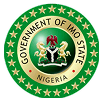
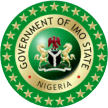
added global

diff --git a/components/sections/partnership/meeting.tsx b/components/sections/partnership/meeting.tsx
@@ -3,7 +3,7 @@ import Link from "next/link";
 
 const GlobalPartnersCollection = [
     {
-        image: '/images/partners/partner.png',
+        image: '/images/partners/imo.png',
         header: 'Imo State Government',
         body: "Driving digital transformation, the Imo State Government's initiatives like Skill-Up Imo aim to train over 100,000 youths in digital technologies, positioning the state as Nigeria's tech hub",
         website: 'https://www.adminting.com'
@@ -36,46 +36,40 @@ const GlobalPartnersCollection = [
 
 export default function GlobalPartners() {
     return (
-        <section className="w-full max-w-[919px] mx-auto py-12 md:py-16 lg:py-[80px] flex flex-col items-center gap-8 md:gap-12 lg:gap-[67px] px-4 sm:px-6">
+        <section className="">
             <h1 className="font-satoshi font-bold text-2xl sm:text-3xl lg:text-[32px] text-center leading-[1.1] lg:leading-[35px]">
                 Meet Our Global Allies
             </h1>
-
-            <div className="w-full flex flex-col gap-8 md:gap-10 lg:gap-[43px]">
+            <div>
                 {GlobalPartnersCollection.map((item, index) => (
                     <div
                         key={index}
-                        className="flex flex-col lg:flex-row items-center gap-6 md:gap-8 lg:gap-[43px] w-full"
+                        className="w-full border"
                     >
-                        <div className="w-full max-w-[200px] sm:max-w-[250px] lg:w-auto">
-                            <Image
-                                src={item.image}
-                                alt={`${item.header} logo`}
-                                width={200}
-                                height={200}
-                                className="w-full h-auto object-contain"
-                            />
+                        <Image
+                            src={item.image}
+                            alt={`${item.header} logo`}
+                            width={107}
+                            height={107}
+                            className="h-auto object-contain"
+                        />
+                        <div className="">
+                            <h2 className="w-full text-[#3B3B3B] text-xl sm:text-2xl lg:text-[24px] font-bold leading-[1.2] lg:leading-[26px]">
+                                {item.header}
+                            </h2>
+                            <p className="text-[#000] font-satoshi text-base sm:text-lg lg:text-[20px] font-light leading-relaxed lg:leading-normal w-full text-justify">
+                                {item.body}
+                            </p>
                         </div>
+                        <Link
+                            href={item.website}
+                            className="w-full lg:w-[156px] flex py-3 lg:py-[12px] px-6 lg:px-[33px] gap-2 lg:gap-[10px] rounded-[56px] border border-[#005DFF] justify-center"
+                        >
+                            <p className="font-roboto text-center font-medium text-sm sm:text-[15px] leading-normal text-[#005DFF]">
+                                Visit Website
+                            </p>
+                        </Link>
 
-                        <div className="flex flex-col lg:flex-row pt-2 lg:pt-[10px] pb-6 lg:pb-[40px] items-center gap-6 md:gap-10 lg:gap-[74px] w-full">
-                            <div className="flex flex-col w-full lg:w-[493px] items-start gap-3 md:gap-4 lg:gap-[17px]">
-                                <h2 className="w-full text-[#3B3B3B] text-xl sm:text-2xl lg:text-[24px] font-bold leading-[1.2] lg:leading-[26px]">
-                                    {item.header}
-                                </h2>
-                                <p className="text-[#000] font-satoshi text-base sm:text-lg lg:text-[20px] font-light leading-relaxed lg:leading-normal w-full text-justify">
-                                    {item.body}
-                                </p>
-                            </div>
-
-                            <Link
-                                href={item.website}
-                                className="w-full lg:w-[156px] flex py-3 lg:py-[12px] px-6 lg:px-[33px] gap-2 lg:gap-[10px] rounded-[56px] border border-[#005DFF] justify-center"
-                            >
-                                <p className="font-roboto text-center font-medium text-sm sm:text-[15px] leading-normal text-[#005DFF]">
-                                    Visit Website
-                                </p>
-                            </Link>
-                        </div>
                     </div>
                 ))}
             </div>

diff --git a/app/partnership/page.tsx b/app/partnership/page.tsx
@@ -1,12 +1,3 @@
-import AboutUsHeroSection from "@/components/sections/about/hero"
-import AboutUsWho from "@/components/sections/about/aboutUs"
-import AboutUSVision from "@/components/sections/about/vison"
-import Mission from "@/components/sections/misson"
-import Objectives from "@/components/sections/objective"
-import Services from "@/components/sections/services"
-import Banner from "@/components/sections/about/banner"
-import AboutLeaderShip from "@/components/sections/about/leadership"
-import Ellipse from "@/components/sections/ellipse"
 import GeneralEllipse from "@/components/general/ellipse"
 import { names } from "@/data/elllipse"
 import PartnershipHeroSection from "@/components/sections/partnership/hero"
